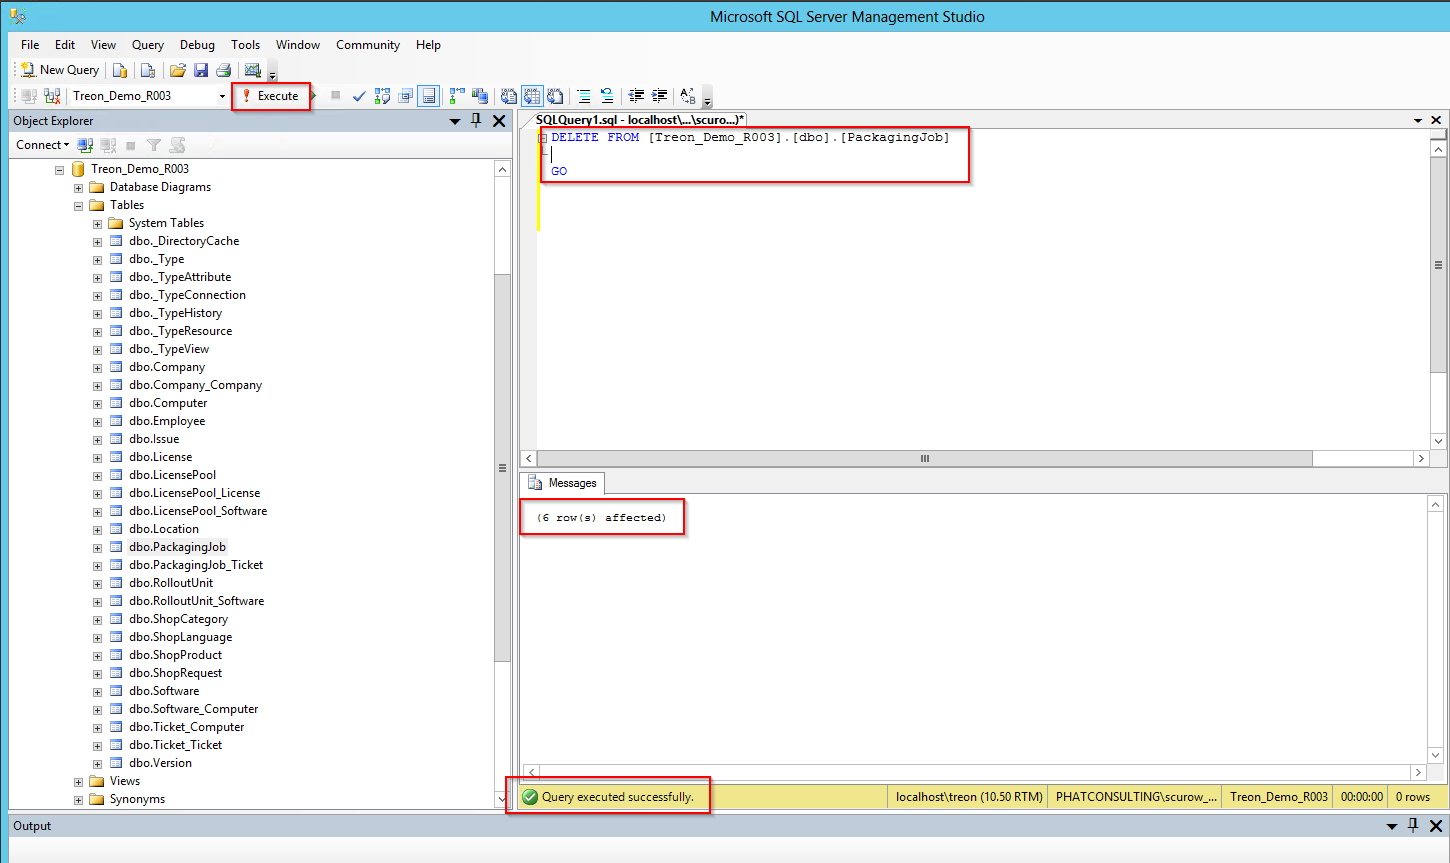
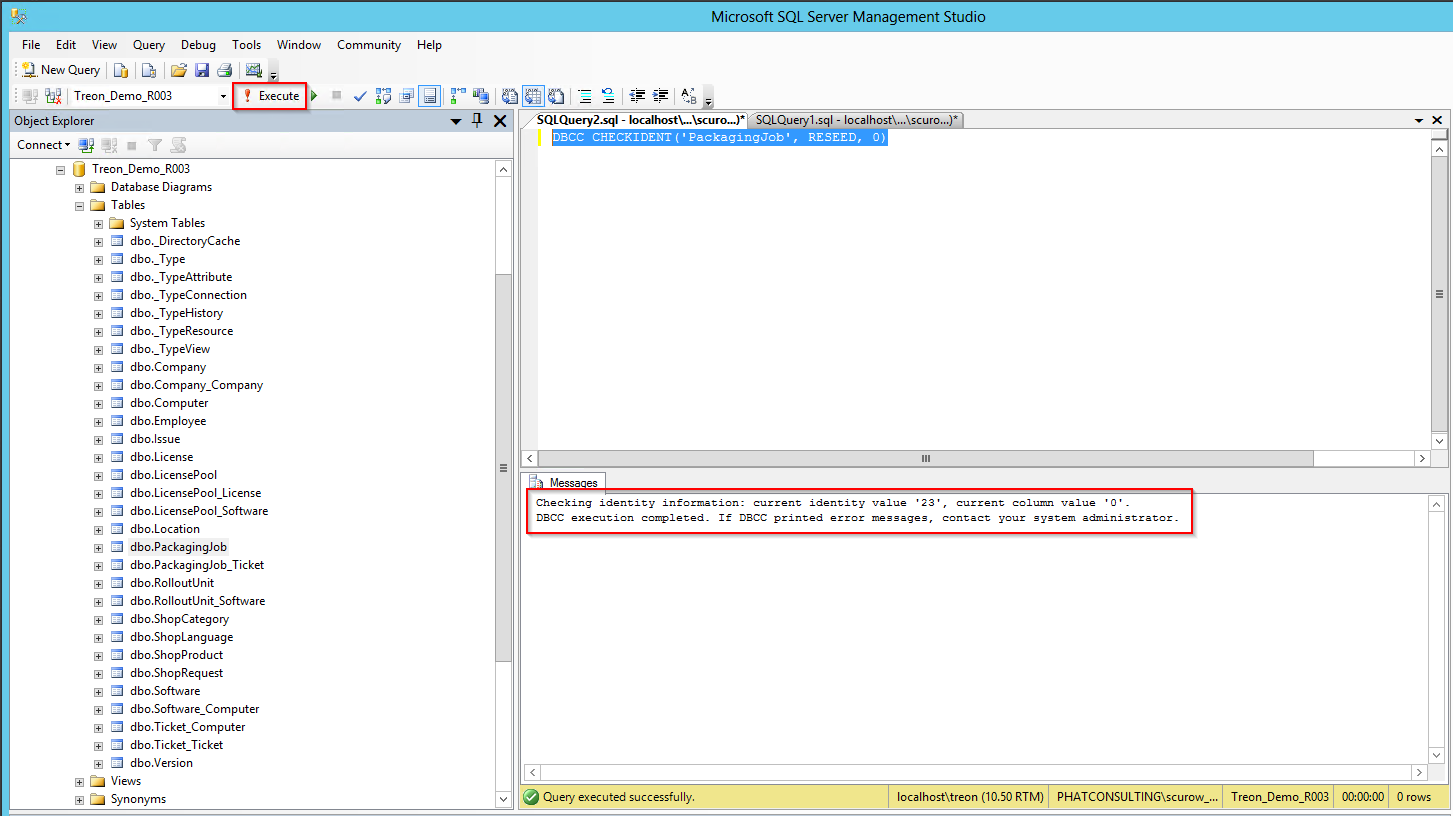
kb05

diff --git a/KnowledgeBase/KB00005_Reset-SIM-Packaging-Jobs/index.rst b/KnowledgeBase/KB00005_Reset-SIM-Packaging-Jobs/index.rst
@@ -6,31 +6,25 @@ KB00005 - Reset SIM Packaging Jobs
   :depth: 1
 
 *************************************
-Restore Silver Monkey Database
+Reset Silver Monkey Packaging Jobs
 *************************************
 
-Create a new Database
-++++++++++++++++++++++++
-Connect to your SQL Server via SQL Management Studio, create a new Database:
+1. Erase Table of Packaging jobs 
++++++++++++++++++++++++++++++++
+
 
 .. image:: _static/image001.png
 
-In the following dialogue choose a database name that fits your naming convention. Click the 'OK'-button.
-
 .. image:: _static/image002.png
 
-Then give authorization following the installation guide.
+.. image:: _static/image003.png
 
-Run Script
-++++++++++++++++++++++++
 
-Choose 'new Query': 
-  .. image:: _static/image003.png
+2. Reset Identity
+++++++++++++++++++++++
+The following command has to be executed in order to make the database start the new packaging jobs with the ID number 1.
+.. image:: _static/image004.png
 
-Copy the content of the SQL backup file that is part of the installation package and paste it into the new query window. Replace the database name in the 'USE {DATABASE NAME}' part of the query with the Name of the Database you just created.
+.. Type:: DBCC CHECKIDENT('PackagingJob', RESEED, 0)
 
-  .. image:: _static/image004.png
-
-  After (!) this click the 'Execute' button.
-
-  You have successfully restored the SIM Database!
+.. image:: _static/image005.png

diff --git a/KnowledgeBase/KB00004_SIM-DB-Restore/index.rst b/KnowledgeBase/KB00004_SIM-DB-Restore/index.rst
@@ -9,7 +9,7 @@ KB00004 - SIM Database Restore
 Restore Silver Monkey Database
 *************************************
 
-Create a new Database
+1. Create a new Database
 ++++++++++++++++++++++++
 Connect to your SQL Server via SQL Management Studio, create a new Database:
 
@@ -21,16 +21,16 @@ In the following dialogue choose a database name that fits your naming conventio
 
 Then give authorization following the installation guide.
 
-Run Script
+2. Run Script
 ++++++++++++++++++++++++
 
 Choose 'new Query': 
-  .. image:: _static/image003.png
+  .. image:: _static/image003.jpg
 
 Copy the content of the SQL backup file that is part of the installation package and paste it into the new query window. Replace the database name in the 'USE {DATABASE NAME}' part of the query with the Name of the Database you just created.
 
   .. image:: _static/image004.png
 
-  After (!) this click the 'Execute' button.
+After (!) this click the 'Execute' button.
 
-  You have successfully restored the SIM Database!
+You have successfully restored the SIM Database!
